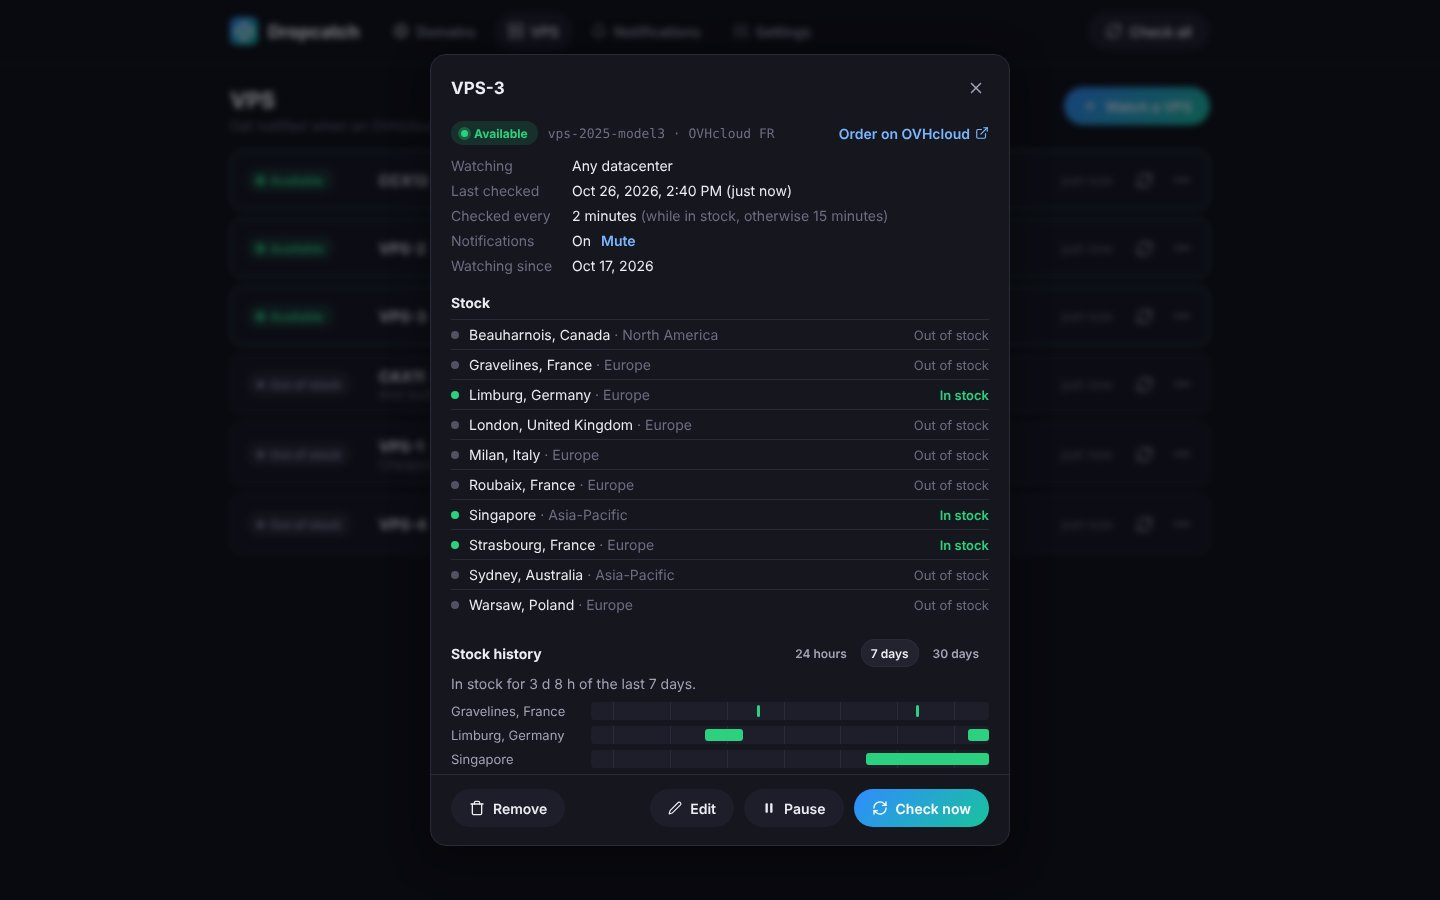
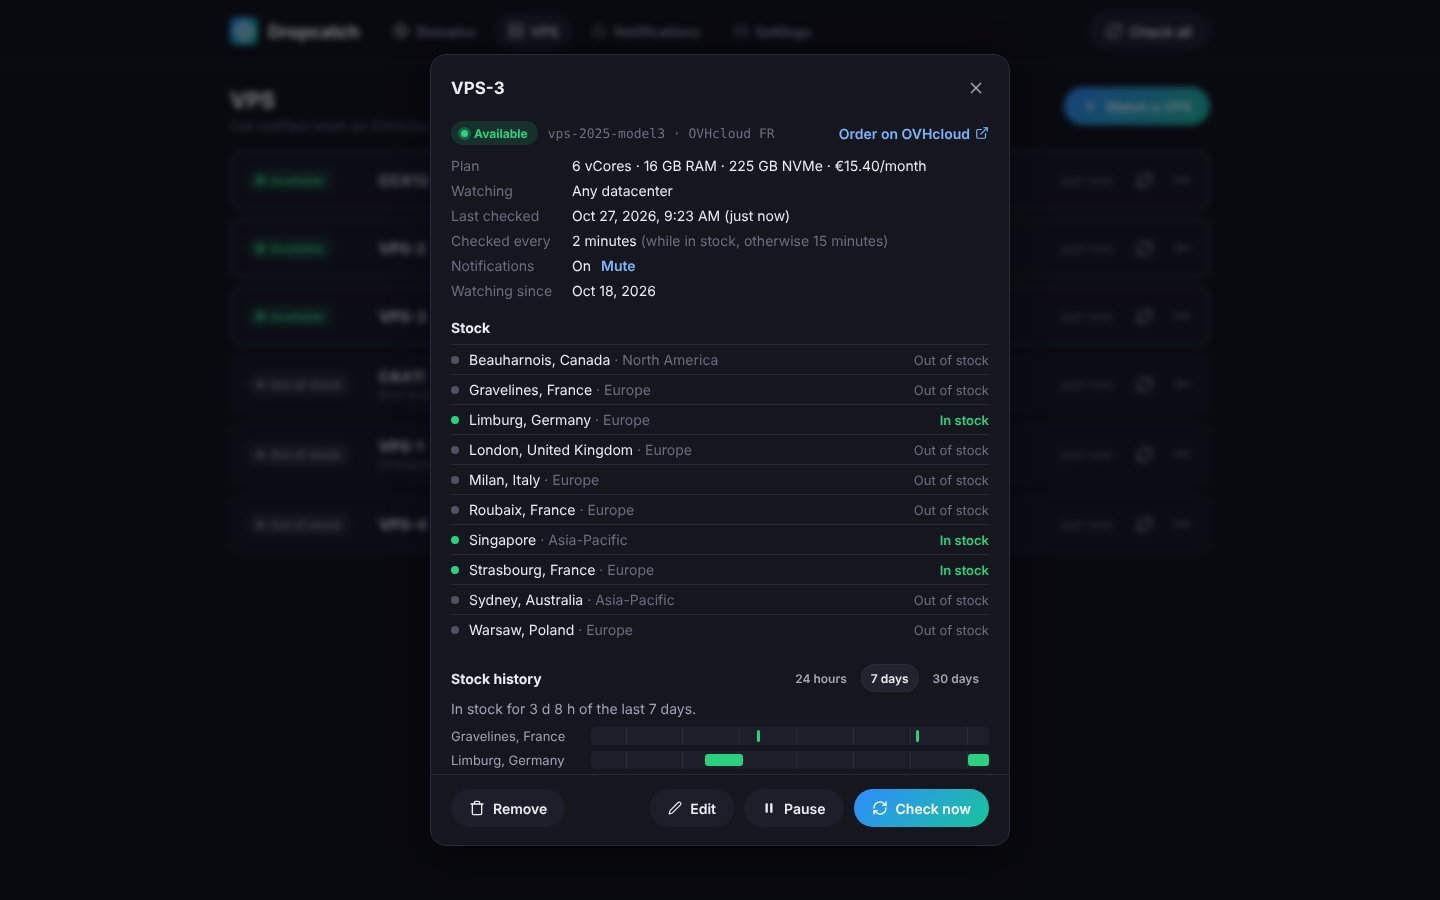
Show the plan's specifications and price in the VPS details
The edit dialog already did; the details dialog is where the watch is
read, so it belongs there too. The README explains Chrome's "possible
spam" label on push notifications.

Claude-Session: https://claude.ai/code/session_01MKP1DsjKAF2KTfz3Nh2CWF

diff --git a/web/src/components/VPSDetails.svelte b/web/src/components/VPSDetails.svelte
@@ -1,8 +1,9 @@
 <script lang="ts">
-  import type { VPS } from '../lib/api'
+  import { api, type Catalog, type VPS } from '../lib/api'
   import { date, dateTime, minutes, regionLabel, relative, statusLabel, vpsEvery } from '../lib/format'
+  import { session } from '../lib/session.svelte'
   import { app } from '../lib/state.svelte'
-  import { orderUrl, planLine, place, places, providerName, vpsActions } from '../lib/vps'
+  import { orderUrl, planLine, planSummary, place, places, providerName, vpsActions } from '../lib/vps'
   import Icon from './Icon.svelte'
   import Modal from './Modal.svelte'
   import StatusBadge from './StatusBadge.svelte'
@@ -12,6 +13,21 @@
 
   const checking = $derived(app.checking.includes(`vps:${v.id}`))
   const watches = (code: string) => !v.datacenters.length || v.datacenters.includes(code)
+
+  // The specifications and price come from the provider's catalog; the
+  // dialog is complete without them when it cannot be loaded.
+  let catalog = $state<Catalog | null>(null)
+  const plan = $derived(catalog?.plans.find((p) => p.code === v.plan))
+  $effect(() => {
+    const [provider, subsidiary] = [v.provider, v.subsidiary || 'FR']
+    catalog = null
+    if (provider === 'hetzner' && !session.config?.hetzner) return
+    ;(provider === 'hetzner' ? api.hetznerPlans() : api.ovhPlans(subsidiary))
+      .then((c) => {
+        if (provider === v.provider) catalog = c
+      })
+      .catch(() => {})
+  })
 
   async function remove() {
     if (await vpsActions.remove(v)) onclose()
@@ -32,6 +48,10 @@
   {/if}
 
   <dl>
+    {#if plan && catalog}
+      <dt>Plan</dt>
+      <dd>{planSummary(plan, catalog.currency)}</dd>
+    {/if}
     <dt>Watching</dt>
     <dd>{v.datacenters.length ? places(v.provider, v.datacenters.length) : `Any ${place(v.provider)}`}</dd>
     <dt>Last checked</dt>

diff --git a/README.md b/README.md
@@ -76,6 +76,7 @@ Dropcatch sends [Web Push](https://developer.mozilla.org/en-US/docs/Web/API/Push
 
 - Push needs Dropcatch to be served over **HTTPS** (or opened on `localhost`).
 - On **iPhone and iPad** (iOS 16.4 or later), add Dropcatch to the home screen first (Share → Add to Home Screen) and enable push from the installed app.
+- **Chrome on Android** may label the notifications "possible spam" (and offer to unsubscribe or block the site). Chrome decides this on the device, from how rarely you interact with a site's notifications and how little you visit the site, and Dropcatch cannot switch it off. To keep it from happening: install Dropcatch (menu → Add to Home screen → Install), open it now and then, and tap the notifications when they arrive. If one is flagged, choose "Show notifications" or "Always allow" instead of unsubscribing; Chrome stops flagging a site after that. Apprise targets (ntfy, Telegram) are not affected.
 - Dropcatch signs its messages with a key it creates in the data directory (`vapid.key`). Keep it with the rest of the data: with a new key, devices have to enable push again.
 - A device that turns notifications off or removes the app is disabled as a target the next time something is sent to it.
 
